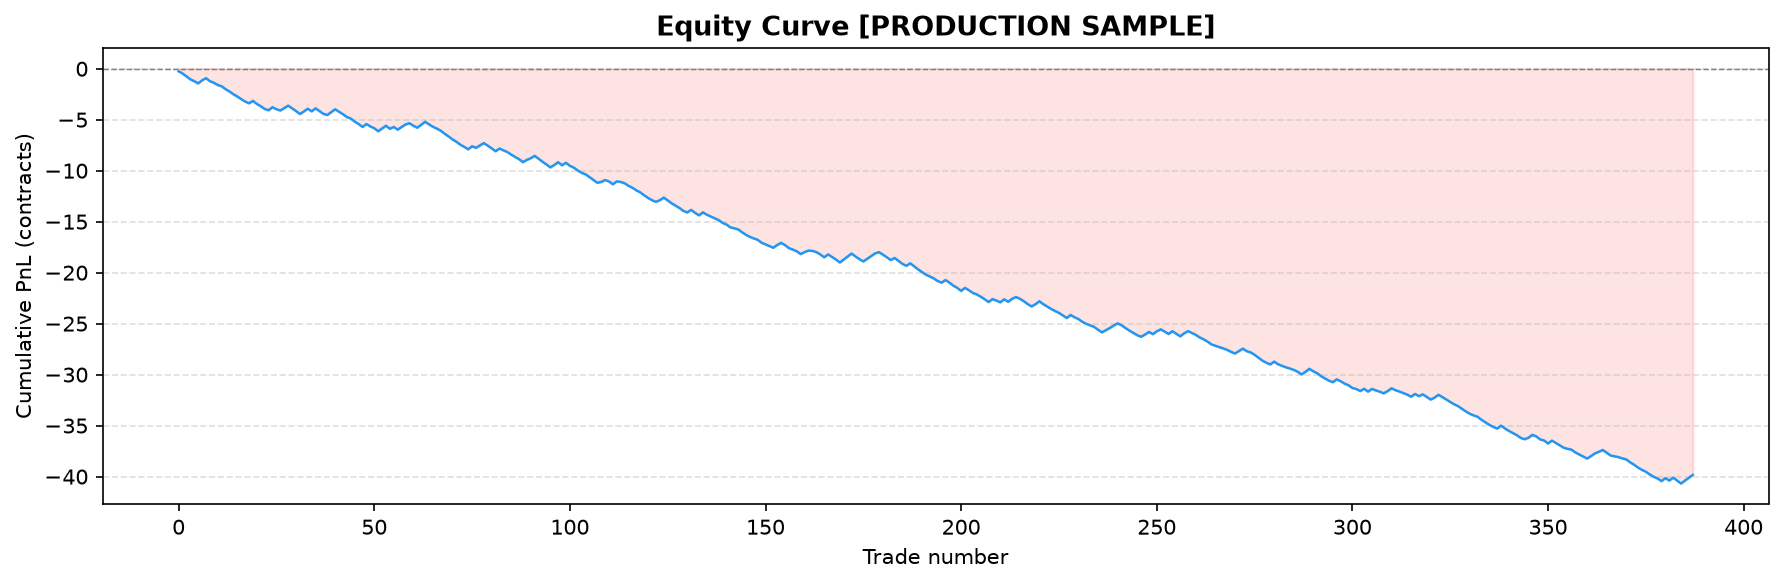
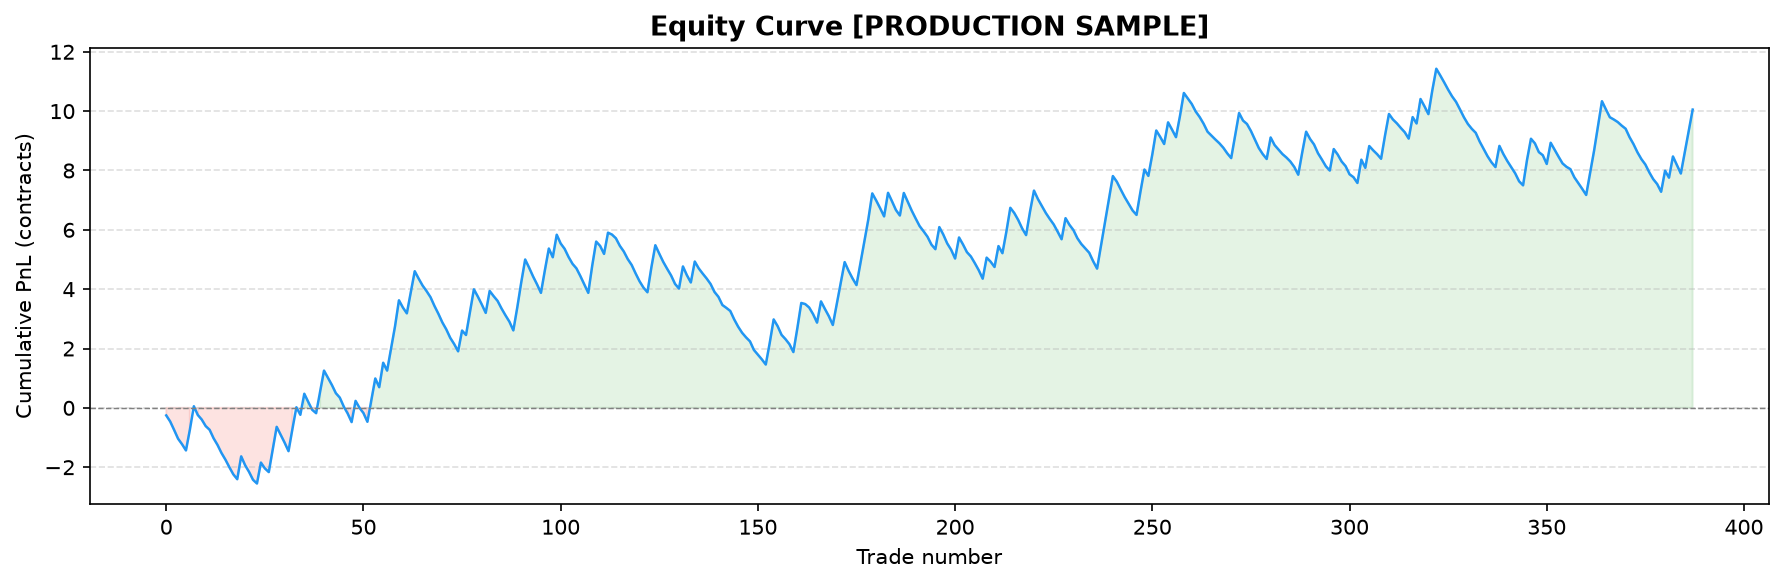
Document momentum and fair-value strategies, update charts
README now covers all four strategies (including the two new backtested
ones) and reports their production-data findings: momentum shows no
overall edge but a borderline-significant one on the NO side; fair-value
shows a highly significant edge specifically when the model says Kalshi
overprices YES (z=4.88, N=120), the standout finding of this batch,
though both need a held-out test split before being trusted further.

Regenerated all three equity charts with the corrected PnL formula.

diff --git a/README.md b/README.md
@@ -6,41 +6,82 @@ Trades are **simulated** — no real orders are placed. All fills use live produ
 
 ![Bucket analysis](docs/images/backtest_buckets.png)
 
-## Strategy
+## Strategies
 
-**FavoriteLongshotStrategy** — exploits the favorite-longshot bias in prediction markets: contracts priced as heavy favorites (YES ≥ 0.85) resolve as YES slightly less often than their price implies.
+Four independent hypotheses, each testing a different kind of market inefficiency.
+The two hold-to-expiry strategies (Favorite-Longshot, Momentum) get a full
+historical backtest with Wilson-CI significance testing; the two TP/SL,
+path-dependent strategies (Mean-Reversion) get validated live via paper
+trading instead — 1-min candlesticks can't reliably simulate an intra-candle
+TP/SL fill, so pretending to backtest them would overstate confidence. Digital
+option fair value is hold-to-expiry too, so it gets the full backtest
+treatment despite being the most "model-heavy" of the four.
 
-Entry filters:
-- YES mid ≥ 0.85
-- Time-to-expiry: 5–13 min
-- Spread ≤ 8 cents
-- No strong BTC/ETH momentum (via Binance API)
+### FavoriteLongshotStrategy — behavioral bias
+Exploits the favorite-longshot bias in prediction markets: contracts priced as
+heavy favorites (YES ≥ 0.85) resolve as YES slightly less often than their
+price implies. Buy NO, hold to expiry. Entry filters: YES mid ≥ 0.85,
+time-to-expiry 5–13 min, spread ≤ 8 cents, no strong BTC/ETH momentum (via
+Binance API). **Backtested** — see Key Findings below.
 
-Position: buy NO, hold to expiry (no stop-loss, time-stop at 14 min).
+### MomentumStrategy — trend continuation
+Deliberate mirror image of Mean-Reversion: bets a recent price move
+*continues* into expiry rather than reverting. If the YES mid has moved by
+more than a threshold over a trailing window, buy in the direction of the
+move and hold to expiry. **Backtested** — see Key Findings below.
 
-Risk controls in the live engine (`kalshi/live/engine.py`): a daily-loss circuit
-breaker (default 20% of starting cash halts new entries) and a per-ticker
-re-entry cooldown after each exit.
+### FairValueStrategy — digital-option mispricing
+Kalshi's KXBTC15M/KXETH15M contracts resolve YES if the reference price at
+close is ≥ (or ≤) a strike fixed at market open — i.e. they're literally
+cash-or-nothing digital options on "does the price finish above its own
+opening level." `kalshi/utils/pricing.py` prices that in closed form (a
+zero-drift lognormal model: spot + realized volatility from Binance, strike
++ time-to-expiry from Kalshi) and trades whichever side disagrees with
+Kalshi's own quote by more than the round-trip cost. **Backtested** — see Key
+Findings below.
+
+### MeanReversionStrategy — reversal (documented negative result)
+Buy YES after a down-move showing signs of recovery, NO after an up-move
+showing signs of decline. TP/SL-based, so it's **live-only**: in production
+paper trading the asymmetric TP/SL parameters (1.5c profit vs 2.5c loss)
+produced near-zero edge after fees. Kept as an example of hypothesis-driven
+design that didn't pan out, not deleted.
+
+Risk controls in the live engine (`kalshi/live/engine.py`), shared by all four
+strategies: a daily-loss circuit breaker (default 20% of starting cash halts
+new entries) and a per-ticker re-entry cooldown after each exit.
 
 ## Architecture
 
 ```
 kalshi/
-  client.py          Kalshi API client — RSA-PSS signed requests
-  data/live.py        Live market data fetcher (public API, no auth)
-  db/ingest.py         SQLite ingestion of paper-trading run results
-  strategies/          Strategy implementations (Strategy ABC + Signal)
-  backtest/            Historical backtest engine, metrics, charts
-  live/engine.py       Paper trading engine (the live loop)
-  utils/               Shared time/fee/market-data helpers
+  client.py            Kalshi API client — RSA-PSS signed requests
+  data/live.py          Live market data fetcher (public API, no auth)
+  data/binance_history.py  Historical Binance klines (fair-value backtest)
+  db/ingest.py           SQLite ingestion of paper-trading run results
+  strategies/            Strategy implementations (Strategy ABC + Signal)
+  backtest/              Historical backtest engines, metrics, charts
+    engine.py, metrics.py, charts.py           Favorite-Longshot (NO-only)
+    fair_value_engine.py                       Fair-value mispricing
+    momentum_engine.py                         Momentum
+    common_metrics.py, common_charts.py        Shared side-aware stats/charts
+  live/engine.py         Paper trading engine (the live loop, all strategies)
+  utils/                 Shared time/fee/market-data/pricing helpers
 ```
+
+`kalshi/backtest/metrics.py` stays NO-side-only (Favorite-Longshot always
+trades NO); `common_metrics.py` is a separate, additive module for strategies
+that can trade either side — a deliberate "don't abstract prematurely" call
+instead of refactoring the original, already-tested pipeline.
 
 Root-level scripts are thin CLI entry points over the package:
 
 | File | Purpose |
 |------|---------|
-| `runner.py` | Main paper-trading loop — start runs here |
-| `backtest.py` | Backtest CLI — scans historical markets, exports CSV + charts |
+| `runner.py` | Main paper-trading loop — start runs here (`--strategy` selects among all four) |
+| `backtest.py` | Favorite-Longshot backtest CLI |
+| `backtest_momentum.py` | Momentum backtest CLI |
+| `backtest_fair_value.py` | Fair-value backtest CLI |
 | `db_ingest.py` | Ingest run results into local SQLite database |
 | `market_analysis.py` | Standalone live market sampling tool (spreads, volatility) |
 | `run_daily.bat` | Windows scheduled task script (runs daily at 15:30) |
@@ -64,6 +105,10 @@ python runner.py --strategy favorite_longshot --duration-minutes 120 --trading-w
 # Backtest the favorite-longshot bias on historical data
 python backtest.py --max-markets 500 --plot results/chart
 
+# Backtest momentum / fair-value on historical data
+python backtest_momentum.py --max-markets 500 --plot results/momentum
+python backtest_fair_value.py --max-markets 500 --plot results/fair_value
+
 # Analyse paper-trading results
 python db_ingest.py --all
 ```
@@ -74,8 +119,9 @@ python db_ingest.py --all
 pytest -q
 ```
 
-46 tests covering fee calculation, time utilities, strategy signal logic, and
-the backtest engine's no-lookahead guarantee.
+88 tests covering fee calculation, time utilities, digital-option pricing,
+strategy signal logic (all four strategies), and each backtest engine's
+no-lookahead guarantee.
 
 ## Configuration (`.env`)
 
@@ -87,9 +133,36 @@ KALSHI_KEY_FILE=path/to/your.key
 
 ## Key Findings
 
+### Favorite-Longshot
 Production backtest (N=2033, Feb–Mar 2026):
 - **Overall NO win rate: 10.3%** — no general favorite-longshot bias on Kalshi
 - **us_open_burst (13:30–15:30 UTC): 15.7% WR, z=+2.51** — only window with positive edge
 - All other time windows: neutral or negative EV
 
 Live validation ongoing (N=13 us_open_burst trades as of May 2026).
+
+### Momentum
+Production backtest (N=800, both series, threshold=2% over a 5-min trailing window):
+- **Overall: 70.0% win rate, EV/contract −0.009, z=+0.36** — no significant edge
+- **side=no (betting a down-move continues): 75.8% WR, EV/contract +0.033, z=+2.14** — borderline significant
+- **side=yes (betting an up-move continues): 63.4% WR, EV/contract −0.056, z=−1.69** — mildly negative
+
+The entry threshold turned out to be non-binding — a >=2% move in the trailing
+window occurs in essentially every market sampled (800/800 signaled), so this
+reads more like "unconditional direction persistence" than a rare, selective
+signal. Worth tightening the threshold before trusting it further.
+
+![Momentum equity curve](docs/images/momentum_equity.png)
+
+### Fair Value
+Production backtest (N=800, both series, min_edge=3 percentage points, 60-min realized-vol window):
+- **Overall: 48.9% win rate, EV/contract +0.009, z=+1.47** — not significant
+- **side=no (model says Kalshi overprices YES): 70.0% WR, EV/contract +0.205, z=+4.88** — highly significant
+- **side=yes (model says Kalshi underprices YES): 45.1% WR, EV/contract −0.026, z=−0.46** — no edge
+
+Like the threshold above, min_edge=3pp didn't filter much (800/800 signaled).
+The side=no result is the most statistically striking finding across all four
+strategies here — whether it holds up needs a held-out test split and more
+data before it's trustworthy, not just a bigger green number on a chart.
+
+![Fair value equity curve](docs/images/fair_value_equity.png)
